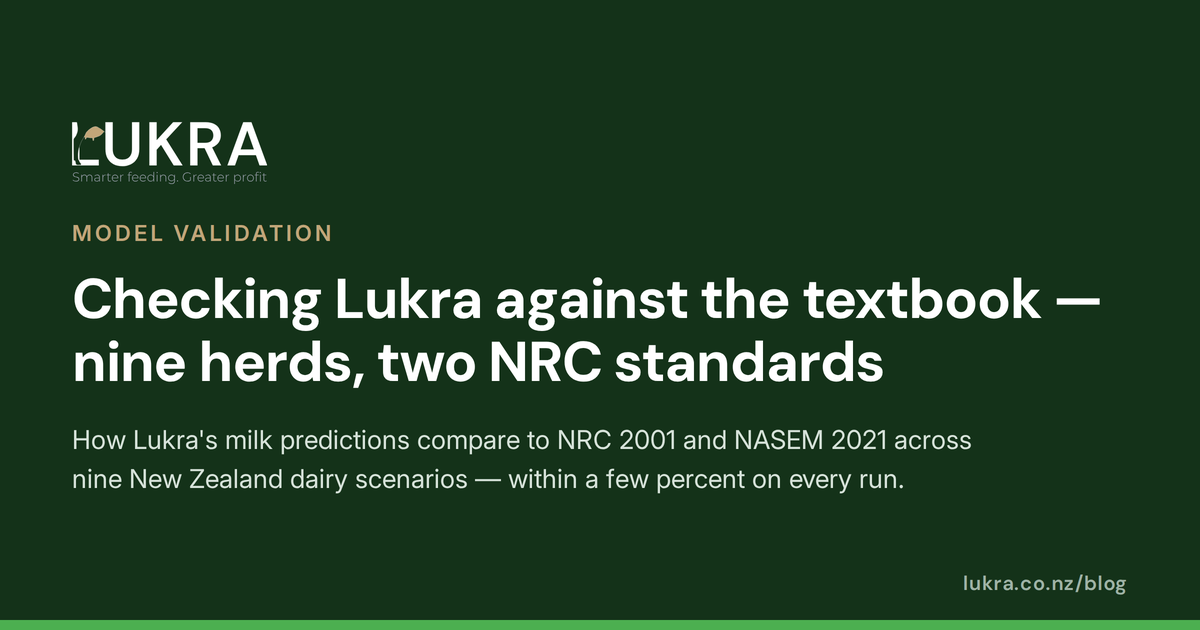
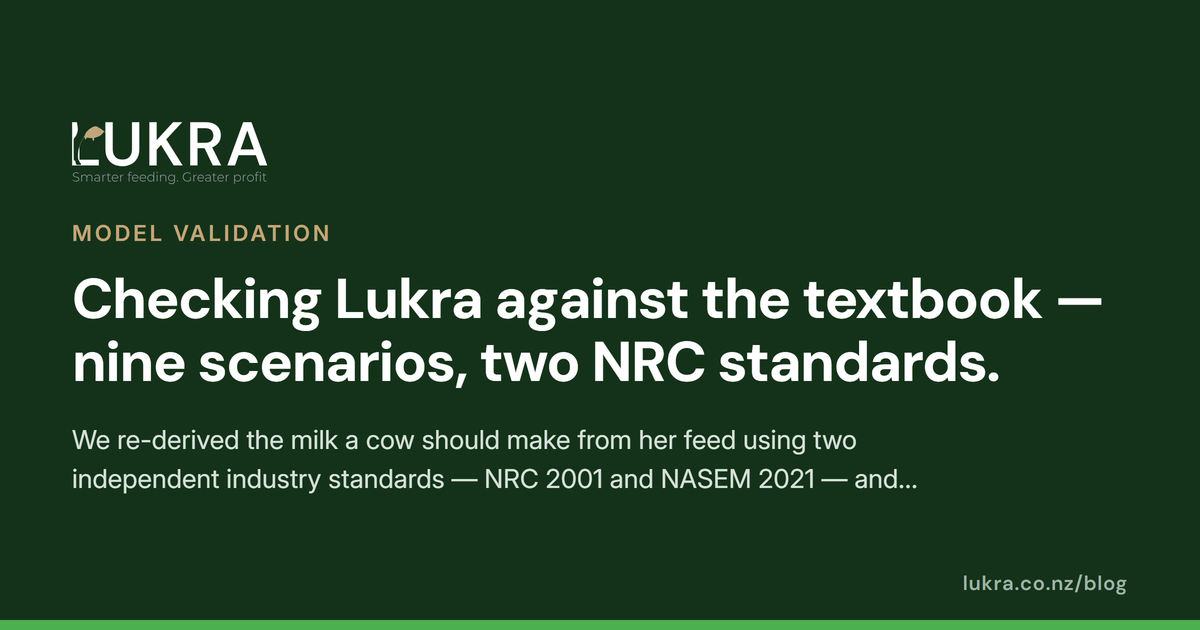
Added OG script to create OG png files from blogs

diff --git a/tools/og-image/template.html b/tools/og-image/template.html
@@ -1,0 +1,63 @@
+<!DOCTYPE html>
+<html>
+<head>
+<meta charset="utf-8">
+<style>
+  /* Local @font-face — points at the committed fonts/ folder next to this
+     template, not Google Fonts. This card is rendered offline (file:// URLs),
+     so it can't rely on the live site's network font import. */
+  @font-face { font-family: 'DM Sans'; src: url('fonts/DMSans-Bold.ttf'); font-weight: 700; }
+  @font-face { font-family: 'DM Sans'; src: url('fonts/DMSans-SemiBold.ttf'); font-weight: 600; }
+  @font-face { font-family: 'Inter'; src: url('fonts/Inter-Regular.ttf'); font-weight: 400; }
+  @font-face { font-family: 'Inter'; src: url('fonts/Inter-SemiBold.ttf'); font-weight: 600; }
+
+  * { box-sizing: border-box; margin: 0; padding: 0; }
+  html, body { width: 1200px; height: 630px; overflow: hidden; }
+  body {
+    background: #143219; /* --brand, matches the live masthead */
+    font-family: 'Inter', sans-serif;
+    position: relative;
+  }
+  .card {
+    width: 1200px; height: 630px;
+    padding: 64px 72px;
+    display: flex; flex-direction: column; justify-content: center;
+    border-bottom: 10px solid #4CAF50; /* --primary */
+  }
+  .logoslot { display: flex; align-items: center; margin-bottom: 36px; }
+  .logoslot svg { height: 62px; width: auto; display: block; }
+  .eyebrow {
+    font-family: 'Inter', sans-serif; font-weight: 600; font-size: 22px;
+    letter-spacing: .14em; text-transform: uppercase; color: #C2A679; /* --brown */
+    margin-bottom: 22px;
+  }
+  h1 {
+    font-family: 'DM Sans', sans-serif; font-weight: 700; font-size: 56px;
+    line-height: 1.12; letter-spacing: -.02em; color: #ffffff;
+    margin-bottom: 26px;
+    display: -webkit-box; -webkit-line-clamp: 3; -webkit-box-orient: vertical;
+    overflow: hidden;
+  }
+  .stand {
+    font-family: 'Inter', sans-serif; font-weight: 400; font-size: 26px;
+    line-height: 1.5; color: #d7e3da; max-width: 920px;
+    display: -webkit-box; -webkit-line-clamp: 2; -webkit-box-orient: vertical;
+    overflow: hidden;
+  }
+  .domain {
+    position: absolute; bottom: 34px; right: 72px;
+    font-family: 'DM Sans', sans-serif; font-weight: 600; font-size: 20px;
+    letter-spacing: .04em; color: #9fb3a6;
+  }
+</style>
+</head>
+<body>
+  <div class="card">
+    <div class="logoslot">__LOGO_SVG__</div>
+    <p class="eyebrow">__EYEBROW__</p>
+    <h1>__TITLE__</h1>
+    <p class="stand">__STAND__</p>
+  </div>
+  <div class="domain">lukra.co.nz/blog</div>
+</body>
+</html>

diff --git a/tools/og-image/generate_og.py b/tools/og-image/generate_og.py
@@ -1,0 +1,140 @@
+#!/usr/bin/env python3
+"""
+generate_og.py — generate a 1200x630 Open Graph share-card image for a blog post.
+
+USAGE
+    python generate_og.py <slug>
+    e.g. python generate_og.py validating-lukra
+
+WHAT IT DOES
+    1. Reads content/blog/<slug>.md and pulls out the same fields head.html
+       uses for the OG card (ogTitle -> title, eyebrow, ogDescription -> stand),
+       so the generated image always matches what's actually live on the page.
+    2. Fills in tools/og-image/template.html (kept as its own file so visual
+       tweaks don't require touching this script) with that text and the
+       logo SVG.
+    3. Renders it in headless Chromium via Playwright and screenshots at 2x
+       scale for crisp text, then downsamples to the exact 1200x630 OG spec
+       size with Pillow.
+    4. Writes the result to themes/lukra/static/images/og/<slug>.png —
+       exactly where head.html's og:image tag already expects it.
+
+PREREQUISITES (one-time setup on whatever machine runs this)
+    pip install playwright pillow --break-system-packages
+    playwright install chromium
+
+NOTE ON FRONT MATTER PARSING
+    This is a deliberately minimal parser for Hugo's flat key: value front
+    matter — it does NOT handle multi-line values, nested YAML, or lists.
+    All fields this script reads are single-line strings, so that's fine
+    for now. If a future post needs something more complex, swap in
+    PyYAML rather than extending this by hand.
+"""
+
+import sys
+import html
+from pathlib import Path
+
+try:
+    from playwright.sync_api import sync_playwright
+except ImportError:
+    sys.exit(
+        "Playwright not installed. Run:\n"
+        "    pip install playwright pillow --break-system-packages\n"
+        "    playwright install chromium"
+    )
+try:
+    from PIL import Image
+except ImportError:
+    sys.exit("Pillow not installed. Run: pip install pillow --break-system-packages")
+
+SCRIPT_DIR = Path(__file__).resolve().parent
+REPO_ROOT = SCRIPT_DIR.parent.parent
+CONTENT_DIR = REPO_ROOT / "content" / "blog"
+OUTPUT_DIR = REPO_ROOT / "themes" / "lukra" / "static" / "images" / "og"
+
+
+def parse_front_matter(md_path: Path) -> dict:
+    """Minimal flat key: value front matter parser — see module docstring
+    for why this doesn't use a full YAML library."""
+    text = md_path.read_text(encoding="utf-8")
+    if not text.startswith("---"):
+        sys.exit(f"{md_path} has no front matter block (expected leading ---)")
+    _, fm_block, _ = text.split("---", 2)
+
+    fields = {}
+    for line in fm_block.strip().splitlines():
+        if not line.strip() or ":" not in line:
+            continue
+        key, value = line.split(":", 1)
+        key = key.strip()
+        value = value.strip()
+        # Strip one layer of wrapping quotes, e.g.  seoTitle: "..."
+        if len(value) >= 2 and value[0] == value[-1] and value[0] in ("'", '"'):
+            value = value[1:-1]
+        fields[key] = value
+    return fields
+
+
+def build_card_html(fields: dict) -> str:
+    template = (SCRIPT_DIR / "template.html").read_text(encoding="utf-8")
+    logo_svg = (SCRIPT_DIR / "logo.svg").read_text(encoding="utf-8")
+
+    # Same fallback order as head.html: prefer the OG-specific field, fall
+    # back to the on-page field, so the card always matches what the live
+    # page would actually show for og:title / og:description.
+    title = fields.get("ogTitle") or fields.get("title", "")
+    eyebrow = fields.get("eyebrow", "")
+    stand = fields.get("ogDescription") or fields.get("stand", "")
+
+    out = template.replace("__LOGO_SVG__", logo_svg)
+    out = out.replace("__EYEBROW__", html.escape(eyebrow))
+    out = out.replace("__TITLE__", html.escape(title))
+    out = out.replace("__STAND__", html.escape(stand))
+    return out
+
+
+def render_png(card_html: str, out_path: Path) -> None:
+    # Render into the same directory as template.html so the relative
+    # fonts/... @font-face paths resolve correctly under file://.
+    tmp_html = SCRIPT_DIR / "_render_tmp.html"
+    tmp_html.write_text(card_html, encoding="utf-8")
+
+    raw_png = SCRIPT_DIR / "_render_tmp.png"
+    with sync_playwright() as p:
+        browser = p.chromium.launch()
+        page = browser.new_page(viewport={"width": 1200, "height": 630}, device_scale_factor=2)
+        page.goto(tmp_html.as_uri())
+        page.wait_for_timeout(200)  # let local @font-face finish loading
+        page.screenshot(path=str(raw_png))
+        browser.close()
+
+    # Downsample from the 2x capture to the exact 1200x630 OG spec size.
+    im = Image.open(raw_png).convert("RGB")
+    im = im.resize((1200, 630), Image.LANCZOS)
+    out_path.parent.mkdir(parents=True, exist_ok=True)
+    im.save(out_path, "PNG", optimize=True)
+
+    tmp_html.unlink()
+    raw_png.unlink()
+
+
+def main():
+    if len(sys.argv) != 2:
+        sys.exit("Usage: python generate_og.py <slug>")
+    slug = sys.argv[1]
+
+    md_path = CONTENT_DIR / f"{slug}.md"
+    if not md_path.exists():
+        sys.exit(f"No such post: {md_path}")
+
+    fields = parse_front_matter(md_path)
+    card_html = build_card_html(fields)
+
+    out_path = OUTPUT_DIR / f"{slug}.png"
+    render_png(card_html, out_path)
+    print(f"Wrote {out_path}")
+
+
+if __name__ == "__main__":
+    main()

diff --git a/content/blog/validating-lukra.md b/content/blog/validating-lukra.md
@@ -1,16 +1,16 @@
 ---
 title: Checking Lukra against the textbook
 eyebrow: Model validation
-stand: We re-derived the milk a cow should make from her feed using two independent industry standards — NRC 2001 and NASEM 2021 — and compared them to what Lukra predicts. Across nine New Zealand herds spanning three breeds and both parities, Lukra lands within a few percent of one of the two standards in every run.
+stand: We re-derived the milk a cow should make from her feed using two independent industry standards — NRC 2001 and NASEM 2021 — and compared them to what Lukra predicts. Across nine New Zealand scenarios spanning three breeds and both parities, Lukra lands within a few percent of one of the two standards in every run.
 date: 2026-06-08
 layout: chart
 scope: 9 runs · 3 breeds · parity 1 & 2
 benchmarks: NRC 2001 · NASEM 2021
 basis: energy (NEL) partitioning
 workbook: NRC2001_LukraValidationSpreadsheet_12.xlsx
-seoTitle: "Lukra Validated vs NRC 2001 & NASEM 2021 — 9 NZ Herds"
+seoTitle: "Lukra Validated vs NRC 2001 & NASEM 2021 — 9 NZ Scenarios"
 seoDescription: "How Lukra's milk predictions compare to NRC 2001 and NASEM 2021 across nine New Zealand dairy scenarios — within a few percent on every run."
-ogTitle: "Checking Lukra against the textbook — nine herds, two NRC standards."
+ogTitle: "Checking Lukra against the textbook — nine scenarios, two NRC standards."
 ---
 
   <!-- ================= HERO: NINE-RUN OVERVIEW ================= -->